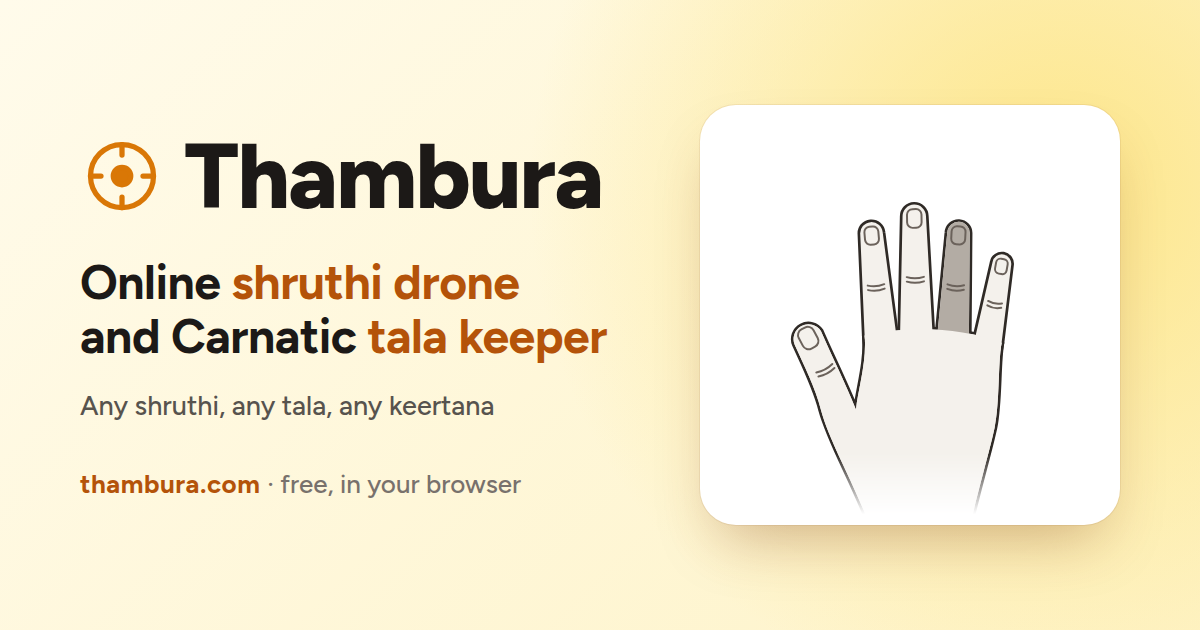
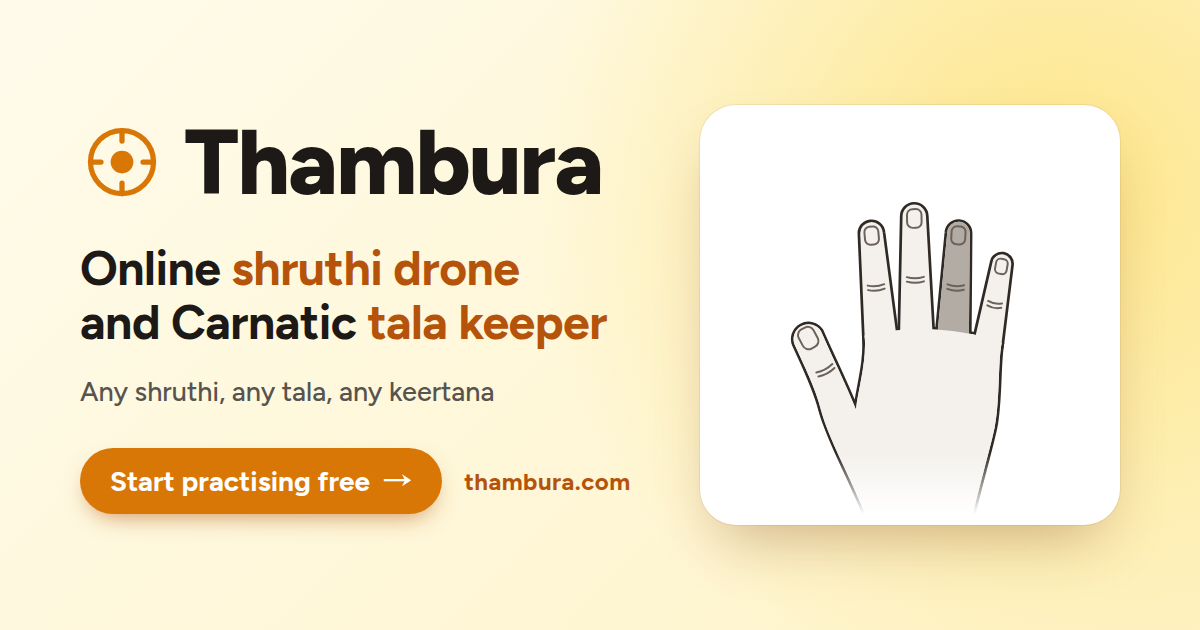
Preview: a shorter description and a call-to-action button
opengraph.xyz flagged the 159-character og:description (previews show
about 125) and the image's lack of a call to action. Social gets its own
Description, used for og:description in place of the meta description,
which stays at search-result length: "A free online thambura (tanpura)
drone in any shruthi, and a Carnatic tala keeper. Runs in your browser."
(104 characters, tested under 125). The image's URL line becomes a
"Start practising free →" button beside thambura.com.

diff --git a/design/og.html b/design/og.html
@@ -33,8 +33,16 @@ Right hand set, read from web/static, so it follows them when they change.
   h1 { margin: 34px 0 0; font-size: 48px; font-weight: 700; line-height: 1.12; letter-spacing: -0.01em; }
   h1 em { font-style: normal; color: #b45309; white-space: nowrap; }
   p { margin: 26px 0 0; font-size: 27px; font-weight: 500; color: #57534e; }
-  .url { margin-top: 46px; font-size: 26px; font-weight: 700; color: #b45309; letter-spacing: 0.02em; }
-  .url span { font-weight: 500; color: #78716c; letter-spacing: 0; }
+  .cta { margin-top: 40px; display: flex; align-items: center; gap: 22px; }
+  .button {
+    display: inline-flex; align-items: center; gap: 12px;
+    padding: 16px 30px; border-radius: 999px;
+    background: #d97706; color: #fff;
+    font-size: 28px; font-weight: 700;
+    box-shadow: 0 10px 24px -10px rgba(180, 83, 9, 0.7);
+  }
+  .button b { font-size: 30px; line-height: 1; }
+  .url { font-size: 24px; font-weight: 700; color: #b45309; letter-spacing: 0.02em; }
   .card {
     width: 420px;
     height: 420px;
@@ -53,7 +61,7 @@ Right hand set, read from web/static, so it follows them when they change.
     <div class="brand"><img src="../web/static/favicon.svg" alt=""><span>Thambura</span></div>
     <h1>Online <em>shruthi drone</em><br>and Carnatic <em>tala keeper</em></h1>
     <p>Any shruthi, any tala, any keertana</p>
-    <div class="url">thambura.com <span>· free, in your browser</span></div>
+    <div class="cta"><span class="button">Start practising free <b>→</b></span><span class="url">thambura.com</span></div>
   </div>
   <div class="card"><img src="../web/static/Resources/Images/RightHand/two.svg" alt=""></div>
 </body>

diff --git a/web/templates/BasePage.html b/web/templates/BasePage.html
@@ -65,7 +65,7 @@ defaults for them), and render "BasePage".
 <meta property="og:type" content="website">
 <meta property="og:site_name" content="{{ brand }}">
 <meta property="og:title" content="{{ or .MetaTitle .Title }}">
-{{ with .MetaDescription }}<meta property="og:description" content="{{ . }}">{{ end }}
+{{ with or .Social.Description .MetaDescription }}<meta property="og:description" content="{{ . }}">{{ end }}
 {{ with .CanonicalUrl }}<meta property="og:url" content="{{ . }}">{{ end }}
 {{ with .Social.Image }}
 <meta property="og:image" content="{{ . }}">

diff --git a/internal/web/pages.go b/internal/web/pages.go
@@ -42,6 +42,9 @@ type SitePage struct {
 
 // Social describes a page's link preview on chat apps and social sites.
 type Social struct {
+	// Description replaces MetaDescription in the preview, which shows about
+	// 125 characters where search results show about 160. Empty uses it as is.
+	Description string
 	Image       string
 	ImageAlt    string
 	ImageWidth  int
@@ -61,6 +64,8 @@ const (
 	homeTitle       = brand.Name + ": online shruthi drone and Carnatic tala keeper"
 	homeDescription = "A free online thambura (tanpura) drone in any shruthi, and a Carnatic tala keeper for " +
 		"sapta and chaapu talas with finger-count hand images. Runs in the browser."
+	homeSocialDescription = "A free online thambura (tanpura) drone in any shruthi, and a Carnatic tala keeper. " +
+		"Runs in your browser."
 )
 
 // Load implements the goapplib View.
@@ -72,6 +77,7 @@ func (p *HomePage) Load(r *http.Request, w http.ResponseWriter, app *goal.App[*A
 	p.DisableSplashScreen = true
 	p.Header.AppName = brand.Name
 	p.Social = Social{
+		Description: homeSocialDescription,
 		Image:       brand.URL + "/static/og.png",
 		ImageAlt:    "Thambura: a hand keeping tala beside the words online shruthi drone and Carnatic tala keeper",
 		ImageWidth:  1200,

diff --git a/internal/web/pages_test.go b/internal/web/pages_test.go
@@ -88,6 +88,12 @@ func TestHomePageMetadata(t *testing.T) {
 	if n := len(homeDescription); n > 170 {
 		t.Errorf("description is %d characters; results cut it off past about 160", n)
 	}
+	if !strings.Contains(body, `<meta property="og:description" content="`+homeSocialDescription+`">`) {
+		t.Error("the preview doesn't use the short description")
+	}
+	if n := len(homeSocialDescription); n > 125 {
+		t.Errorf("preview description is %d characters; previews cut it off past about 125", n)
+	}
 
 	m := regexp.MustCompile(`(?s)<script type="application/ld\+json">(.*?)</script>`).FindStringSubmatch(body)
 	if m == nil {
